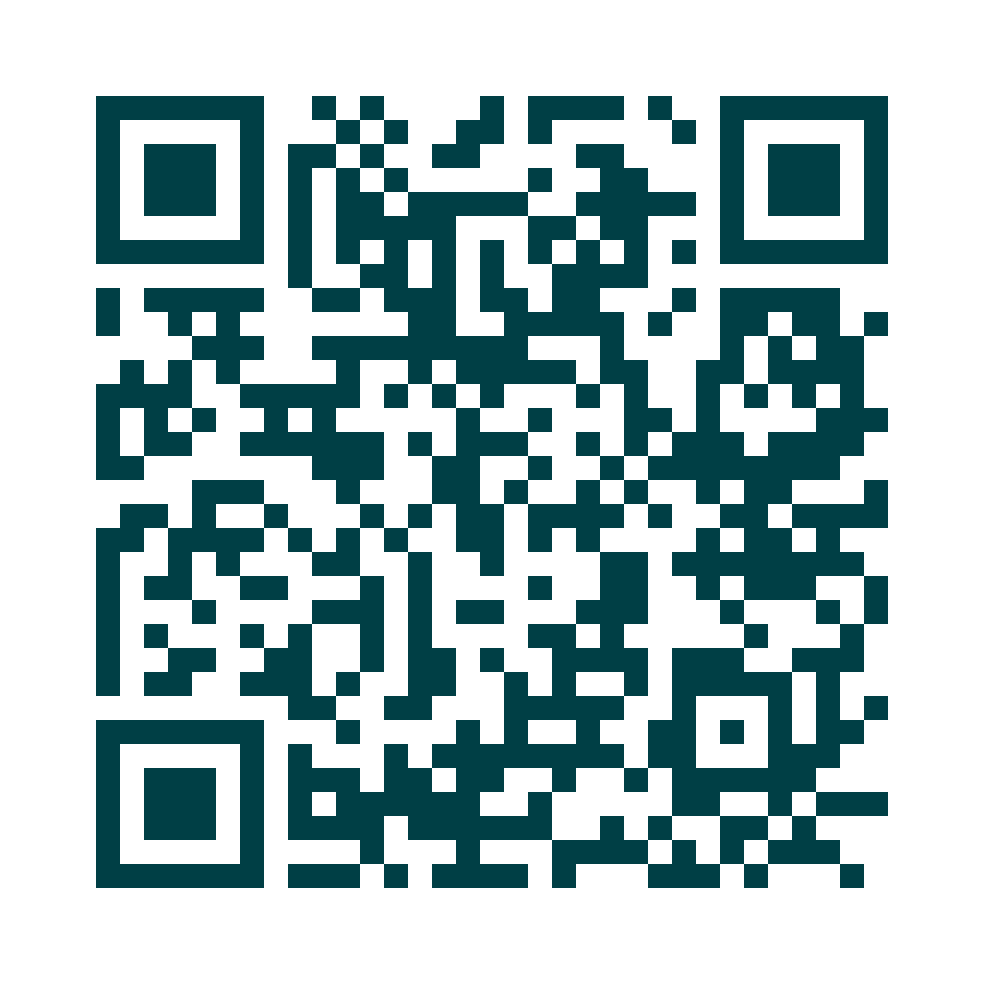
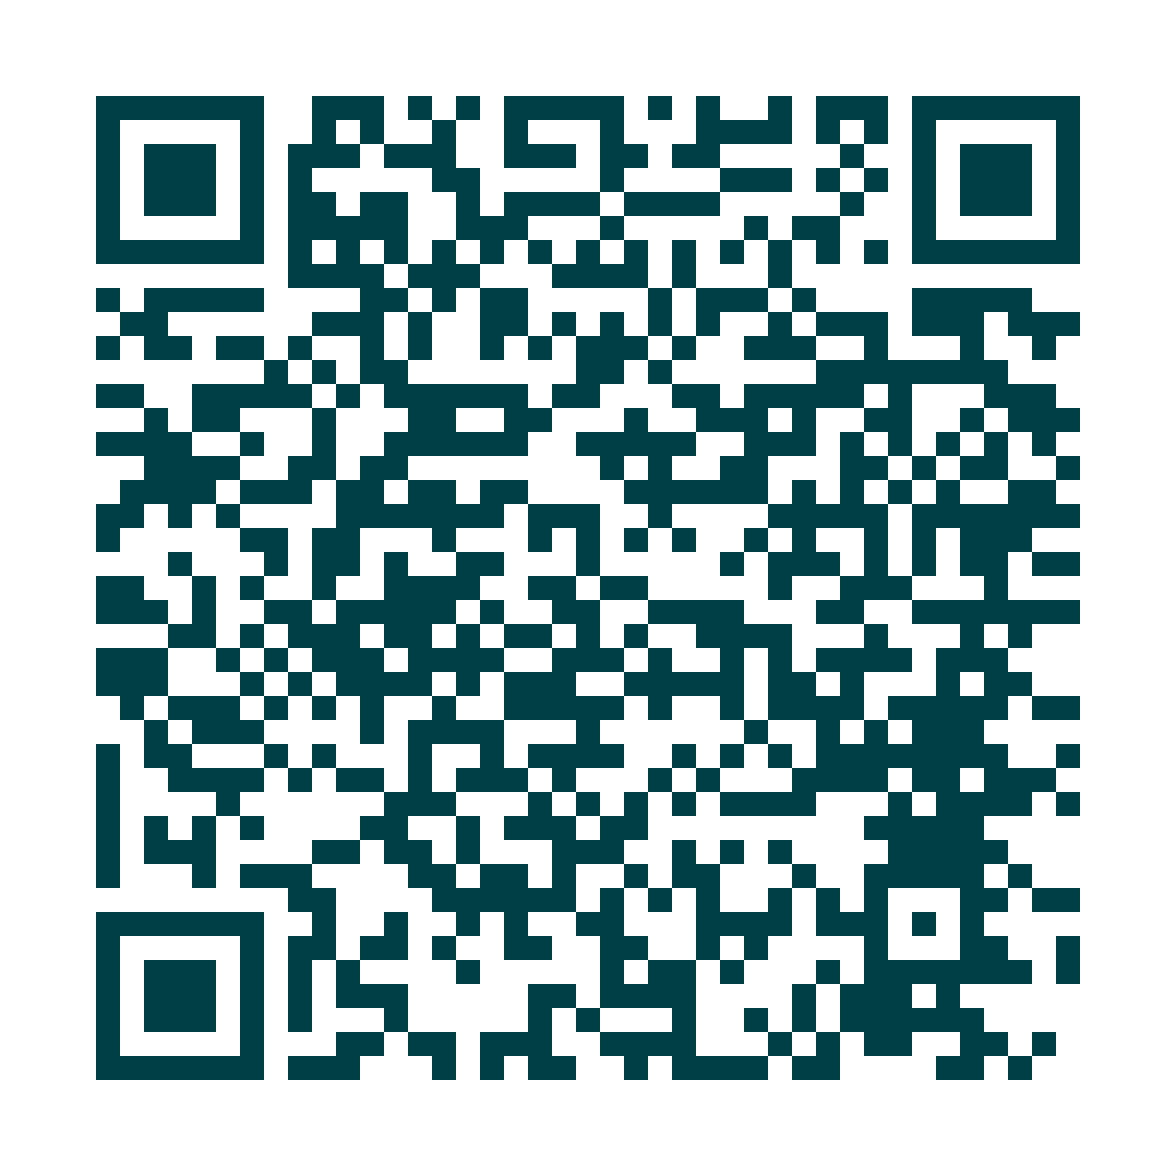
QR code: punta direttamente al PDF dell'e-book
Il PDF è pubblicato tra i File del negozio (CDN Shopify, indirizzo senza marchio)
e il QR code apre direttamente il file.

Claude-Session: https://claude.ai/code/session_01MzwKkmueZz9Pw2evQXyfU8

diff --git a/ebook-palermo/README.md b/ebook-palermo/README.md
@@ -21,8 +21,9 @@ Trattandosi di materiale per un corso ECM, l'e-book non contiene logo né riferi
 I richiami numerati `[n]` nel testo corrispondono all'elenco numerato della pagina 6.
 Tutte le fonti sono state verificate su PubMed.
 
-## Pagina online e QR code
+## PDF online e QR code
 
-- Pagina di lettura e download: https://claude.ai/artifact/M9opi5abCdkKWiARu2QsRn
-  (va resa pubblica dal menu Condividi della pagina, altrimenti chi inquadra il QR non riesce ad aprirla).
-- `qr-code-ebook.png` e `qr-code-ebook.svg`: QR code che punta a quella pagina (SVG per la stampa).
+- PDF pubblico (sezione File del negozio Shopify, indirizzo senza marchio):
+  https://cdn.shopify.com/s/files/1/0686/6812/9429/files/Tutto-comincia-dalla-bocca.pdf
+- `qr-code-ebook.png` e `qr-code-ebook.svg`: QR code che apre direttamente quel PDF (SVG per la stampa).
+- Per aggiornare il PDF senza cambiare il QR: in Shopify › Contenuti › File sostituisci il file mantenendo lo stesso nome.
